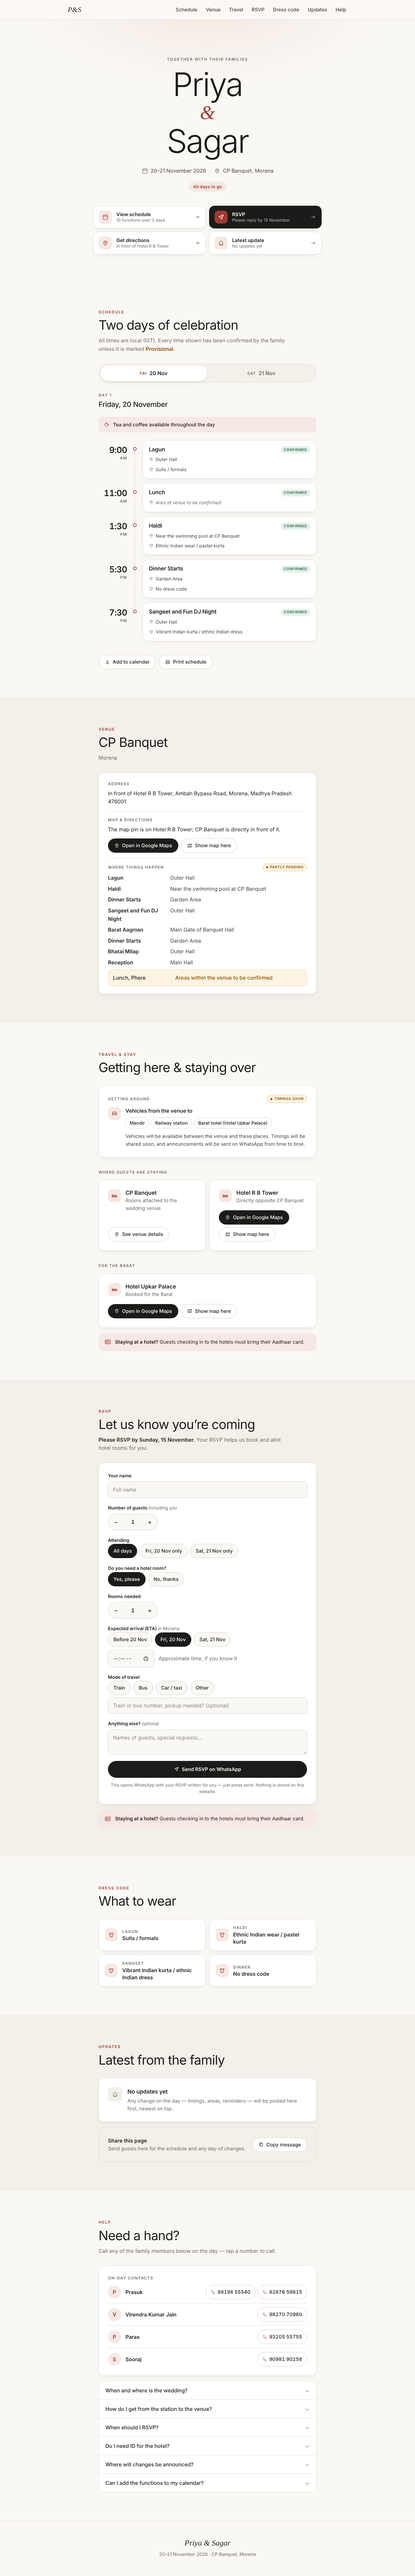
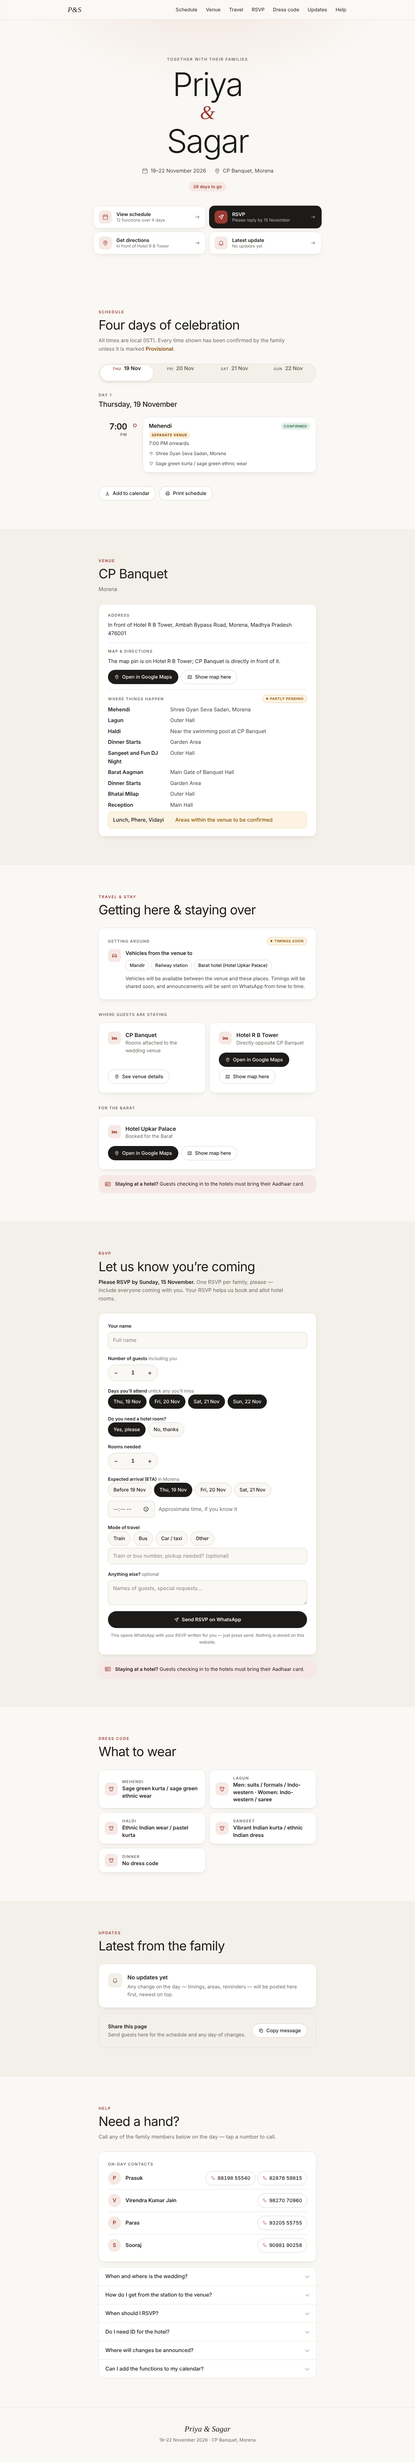
Add Mehendi (19 Nov) and Vidayi (22 Nov), widen Lagun dress code, one RSVP per family
- 19 Nov: Mehendi, 7:00 PM onwards, at Shree Gyan Seva Sadan, Morena,
  marked as a separate venue on the card, FAQ and calendar entry;
  dress code sage green kurta / ethnic wear
- 22 Nov: Vidayi at 7:00 AM
- Lagun dress code: men suits / formals / Indo-western, women
  Indo-western / saree
- RSVP: "one RSVP per family" note; days attended are tick-boxes
  (at least one) instead of a single choice
- Day tabs stack weekday over date on phones so four days fit;
  schedule heading counts the days
- Schema: optional offsite and onwards flags on schedule items

Claude-Session: https://claude.ai/code/session_01SZ5tZi453V9SRYdkjpXhq7

diff --git a/src/assets/base.css b/src/assets/base.css
@@ -176,19 +176,24 @@ main > section.section:nth-of-type(odd) { background: var(--surface-tint); }
 .btn--ghost { background: var(--surface); border-color: var(--line-strong); color: var(--ink); }
 .btn--ghost:hover { border-color: var(--ink); }
 
-/* Schedule tabs */
+/* Schedule tabs: weekday stacked over date on phones, side by side when there is room. */
 .tabs {
   display: grid; grid-auto-flow: column; grid-auto-columns: 1fr; gap: .25rem;
   padding: .3rem; margin-bottom: 1.75rem;
-  background: var(--surface-tint); border: 1px solid var(--line); border-radius: 999px;
+  background: var(--surface-tint); border: 1px solid var(--line); border-radius: var(--radius);
 }
 .tab {
-  display: flex; align-items: center; justify-content: center; gap: .5rem;
-  min-height: 48px; padding: 0 1rem; border: 0; border-radius: 999px; background: transparent; cursor: pointer;
-  color: var(--muted); transition: background-color .2s, color .2s, box-shadow .2s;
+  display: flex; flex-direction: column; align-items: center; justify-content: center; gap: .1rem;
+  min-height: 56px; padding: .35rem .25rem; border: 0; border-radius: calc(var(--radius) - 4px); background: transparent; cursor: pointer;
+  color: var(--muted); line-height: 1.2; transition: background-color .2s, color .2s, box-shadow .2s;
 }
-.tab__weekday { font-size: .75rem; font-weight: 600; letter-spacing: .1em; text-transform: uppercase; }
-.tab__date { font-weight: 600; font-size: 1rem; }
+.tab__weekday { font-size: .6875rem; font-weight: 600; letter-spacing: .1em; text-transform: uppercase; }
+.tab__date { font-weight: 600; font-size: .9375rem; white-space: nowrap; }
+@media (min-width: 40rem) {
+  .tabs { border-radius: 999px; }
+  .tab { flex-direction: row; align-items: baseline; gap: .5rem; min-height: 48px; padding: 0 1rem; border-radius: 999px; }
+  .tab__date { font-size: 1rem; }
+}
 .tab[aria-selected="true"] { background: var(--surface); color: var(--ink); box-shadow: var(--shadow); }
 .tab[aria-selected="true"] .tab__weekday { color: var(--accent); }
 
@@ -350,6 +355,11 @@ textarea.input { resize: vertical; min-height: 72px; }
   display: inline-flex; align-items: center; min-height: 44px; padding: 0 1rem; border-radius: 999px;
   border: 1px solid var(--line-strong); background: var(--bg); font-size: .9375rem; font-weight: 500;
   transition: background-color .2s, border-color .2s, color .2s;
+}
+.event__offsite {
+  display: inline-block; margin-top: .35rem; padding: .1rem .55rem; border-radius: 999px;
+  background: var(--provisional-soft); color: var(--provisional);
+  font-size: .6875rem; font-weight: 700; letter-spacing: .08em; text-transform: uppercase;
 }
 .choice input:checked + span { background: var(--ink); border-color: var(--ink); color: var(--bg); }
 .choice input:focus-visible + span { outline: 2px solid var(--accent); outline-offset: 2px; }

diff --git a/src/assets/app.js b/src/assets/app.js
@@ -128,7 +128,7 @@
         '',
         'Name: ' + f.name.value.trim(),
         'Guests (including me): ' + f.guests.value,
-        'Attending: ' + f.days.value,
+        'Attending: ' + checkedDays().join(', '),
         'Hotel room needed: ' + f.room.value + (f.room.value === 'Yes' ? ' (' + f.rooms.value + (f.rooms.value === '1' ? ' room)' : ' rooms)') : '')
       ];
       lines.push('ETA: ' + f.eta_day.value + (f.eta_time.value ? ', ' + formatClock(f.eta_time.value) : ''));
@@ -136,6 +136,16 @@
       if (f.note.value.trim()) lines.push('Note: ' + f.note.value.trim());
       send.href = form.getAttribute('data-wa-url') + '?text=' + encodeURIComponent(lines.join('\n'));
     };
+    var dayBoxes = form.querySelectorAll('[data-days] input');
+    var checkedDays = function () {
+      return Array.prototype.filter.call(dayBoxes, function (b) { return b.checked; }).map(function (b) { return b.value; });
+    };
+    var syncDays = function () {
+      dayBoxes[0].setCustomValidity(checkedDays().length ? '' : 'Please tick at least one day.');
+    };
+    Array.prototype.forEach.call(dayBoxes, function (b) { b.addEventListener('change', syncDays); });
+    syncDays();
+
     form.addEventListener('input', compose);
     form.addEventListener('change', compose);
     form.addEventListener('click', function (e) { if (e.target.closest('[data-step]')) compose(); });

diff --git a/VALIDATION.md b/VALIDATION.md
@@ -6,7 +6,7 @@ Run everything with:
 
 ```bash
 npm install
-npm run check      # unit tests + build + 56 acceptance checks
+npm run check      # unit tests + build + 66 acceptance checks
 ```
 
 ## Why private items cannot reach the public output
@@ -22,12 +22,13 @@ The unit tests (`test/public-data.test.mjs`) also check that the filter still dr
 
 | Check | Result | How |
 | --- | --- | --- |
-| Exactly 5 public entries on 20 Nov and 5 on 21 Nov | Pass | `verify` counts rendered items per day (expected counts come from `event-data.json`); `.ics` has exactly 10 events |
+| Public entries per day: 1 (19 Nov), 5 (20 Nov), 5 (21 Nov), 1 (22 Nov) | Pass | `verify` counts rendered items per day (expected counts come from `event-data.json`); `.ics` has exactly 12 events |
+| Mehendi at a separate venue | Pass | Card shows "Separate venue" and "7:00 PM onwards"; the FAQ and the calendar entry name Shree Gyan Seva Sadan, Morena |
 | WhatsApp-only material absent everywhere | Pass | `notification_material` is empty since the family made Lunch and Phere public on 10 Oct 2026. Any item added there later is scanned for by id, title, time and calendar stamp |
 | 21 Nov dinner shows 10:00 PM sharp end | Pass | Renders "4:00 PM onwards · ends 10:00 PM sharp" |
 | Every function shows its time and venue area | Pass | One check per schedule item. Lunch and Phere areas are still marked "to be confirmed" |
-| RSVP ETA and mode of travel | Pass | Arrival day and approximate time, plus a required mode of travel (train, bus, car / taxi, other) with optional train or bus details |
-| Tea/coffee note on both days | Pass | Shown in each day's panel, not as a timed event |
+| RSVP: one per family, days ticked, ETA and mode of travel | Pass | Asks for one RSVP per family; a tick-box for each day (at least one required); arrival day and approximate time, plus a required mode of travel (train, bus, car / taxi, other) with optional train or bus details |
+| Tea/coffee note on 20 and 21 Nov | Pass | Shown in those days' panels only, not as a timed event |
 | Every schedule item shows a timing status | Pass | 8 "Confirmed" pills |
 | Venue address and map | Pass | "In front of Hotel R B Tower, Ambah Bypass Road, Morena, Madhya Pradesh 476001" and the approved Google Maps link |
 | On-day contacts | Pass | Every number in `contacts` is a tap-to-call link, and there are no others |

diff --git a/requirements.md b/requirements.md
@@ -63,8 +63,10 @@ Only website-eligible `schedule` entries may be rendered on the site. `notificat
 
 | Date | Public website content |
 | --- | --- |
+| 19 Nov | 7:00 PM onwards Mehendi at Shree Gyan Seva Sadan, Morena (separate venue). |
 | 20 Nov | 9:00 AM Lagun (Outer Hall); 11:00 AM Lunch; 1:30 PM Haldi near the swimming pool at CP Banquet; 5:30 PM Dinner Starts (Garden Area); 7:30 PM Sangeet and Fun DJ Night (Outer Hall); tea and coffee throughout the day. |
 | 21 Nov | 4:00 PM Barat Aagman (Main Gate of Banquet Hall); 4:00 PM Dinner Starts, ends sharply at 10:00 PM (Garden Area); 7:00 PM Bhatai Milap (Outer Hall); 9:00 PM Reception (Main Hall); 11:00 PM Phere; tea and coffee throughout the day. |
+| 22 Nov | 7:00 AM Vidayi. |
 
 Update 10 Oct 2026: the venue is now called CP Banquet. The family moved the Lunch (20 Nov) and the Phere (21 Nov, now 11:00 PM) from WhatsApp-only to the public schedule, and replaced the Stage Program with the Reception.
 
@@ -74,7 +76,9 @@ Supplied since milestone 1: the venue map link (pin on Hotel R B Tower, directly
 
 Also supplied: the full venue address (In front of Hotel R B Tower, Ambah Bypass Road, Morena, Madhya Pradesh 476001); RSVP by 15 November via a WhatsApp message to the family, to help book and allot hotel rooms; the Aadhaar card requirement for hotel check-in; and dress codes for Lagun, Haldi, Sangeet and dinners.
 
-Still unresolved: venue areas for the Lunch and the Phere, vehicle timings, and dress code for Barat Aagman, Bhatai Milap, Reception and Phere. Treat them as unresolved, not as blanks to fill with assumptions; the site shows each as "to be announced".
+Update 10 Oct 2026 (later): Mehendi added on 19 Nov at Shree Gyan Seva Sadan, Morena (dress code: sage green); Vidayi added on 22 Nov at 7:00 AM; Lagun dress code widened to suits / formals / Indo-western for men and Indo-western / saree for women; RSVP asks for one response per family.
+
+Still unresolved: venue areas for the Lunch, Phere and Vidayi, a map link for Shree Gyan Seva Sadan, vehicle timings, and dress code for Barat Aagman, Bhatai Milap, Reception, Phere and Vidayi. Treat them as unresolved, not as blanks to fill with assumptions; the site shows each as "to be announced".
 
 ## Out of scope for milestone 1
 

diff --git a/website-information-architecture.md b/website-information-architecture.md
@@ -6,7 +6,7 @@ Use a single mobile-first wedding information site. Keep navigation short and pr
 
 | Area | Purpose | Required content | Status / rule |
 | --- | --- | --- | --- |
-| Welcome | Orient guests | Priya & Sagar; 20–21 November 2026; CP Banquet, Morena | Ready from supplied data |
+| Welcome | Orient guests | Priya & Sagar; 19–22 November 2026; CP Banquet, Morena | Ready from supplied data |
 | Schedule | Main guest utility | Day tabs/sections, times, public functions, dinner end time, tea/coffee note | Render only `schedule` + public `guest_services` |
 | Venue | Help guests arrive | Venue name; approved address, map, internal-location notes when received | Address/link pending — do not fabricate |
 | Updates | Day-of clarity | Dated, timestamped notices; latest notice visually prominent | Empty state until an approved update exists |

diff --git a/README.md b/README.md
@@ -1,6 +1,6 @@
 # Priya & Sagar — Wedding Guest Experience
 
-Planning pack and website prototype for the wedding at **CP Banquet, Morena** (in front of Hotel R B Tower), on **20–21 November 2026**.
+Planning pack and website prototype for the wedding at **CP Banquet, Morena** (in front of Hotel R B Tower), on **19–22 November 2026**.
 
 ## Website prototype (Milestone 01)
 
@@ -10,7 +10,7 @@ A mobile-first static site with Welcome, Schedule, Venue, Travel & stay, RSVP, D
 npm install
 npm run build      # validates the data and writes dist/
 npm run preview    # serves dist/ at http://localhost:4173
-npm run check      # unit tests + 56 acceptance checks (see VALIDATION.md)
+npm run check      # unit tests + 66 acceptance checks (see VALIDATION.md)
 ```
 
 You can also open `dist/index.html` directly in a browser.
